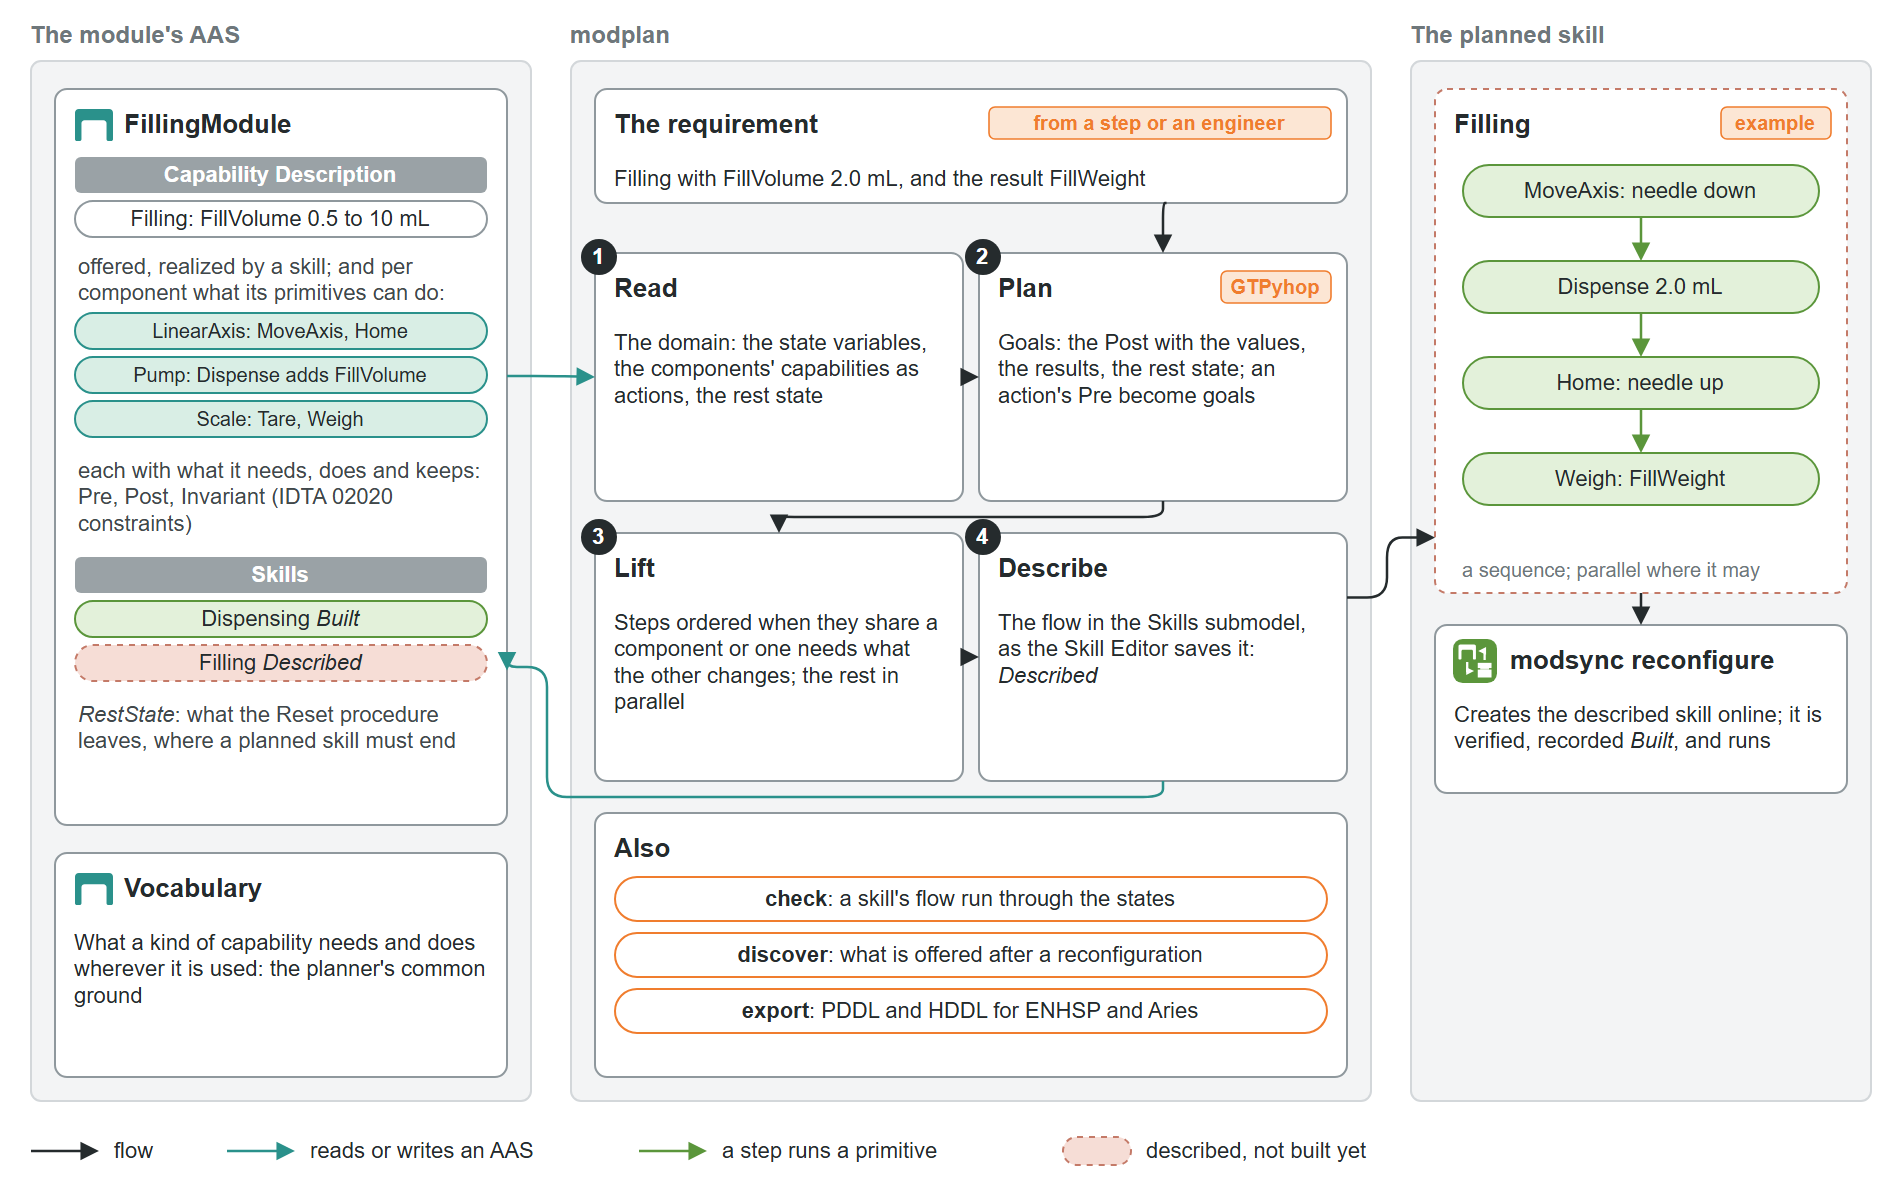
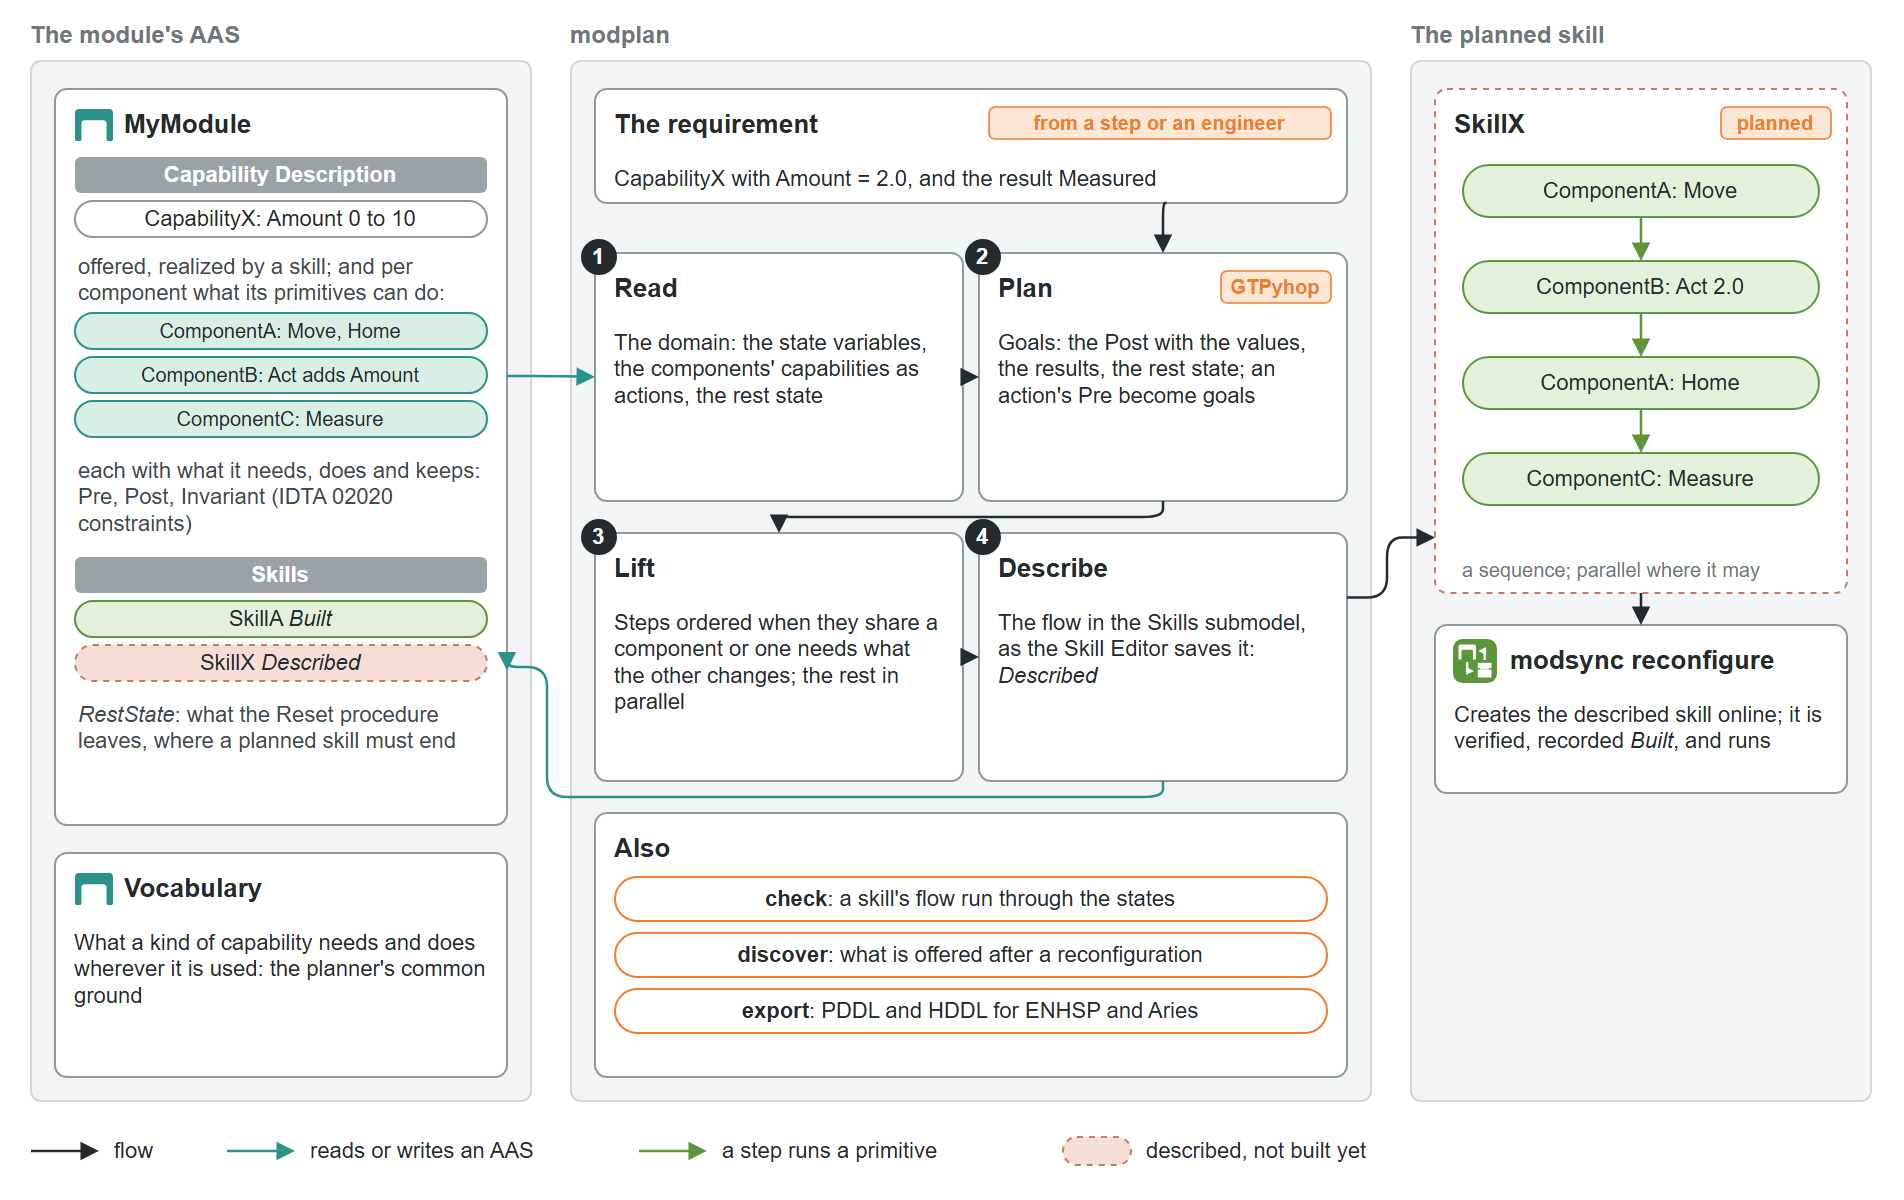
Planning pages and modplan figure: a generic module and capability, current commands

diff --git a/docs/planning/modplan.md b/docs/planning/modplan.md
@@ -2,11 +2,11 @@
 
 <span class="pillar planning">Planning</span> Plans a new composite skill for a module from its
 Capability Description, checks the skills the module has, and finds what it could carry out after a
-reconfiguration. Folder `aas61499-tools/modplan`; becomes the `modplan` repository.
+reconfiguration. A package of [aaspire-tools](https://github.com/AAU-AASPIRE/aaspire-tools).
 
 <figure markdown="span">
   [![The module's AAS with its Capability Description and Skills on the left; modplan's four steps from
-  a requirement in the middle; the planned skill Filling as four steps and modsync creating it on the
+  a requirement in the middle; the planned skill SkillX as four steps and modsync creating it on the
   right](../figures/modplan.png)](../figures/modplan.png)
   <figcaption>From a requirement to a described skill: read the domain, plan, lift the plan into a flow,
   describe it in the Skills submodel. modsync then builds it on the running module.</figcaption>
@@ -14,9 +14,9 @@ reconfiguration. Folder `aas61499-tools/modplan`; becomes the `modplan` reposito
 
 ## How it plans
 
-The input is a **requirement**: a capability the module offers, the values of its properties
-(FillVolume 2.0), and the results asked for (FillWeight). It comes from a product's step, an engineer,
-or an agent that wants to bid.
+The input is a **requirement**: a capability the module offers, the values of its properties (say
+`Amount = 2.0`), and the results asked for (say `Measured`). It comes from a product's step, an
+engineer, or an agent that wants to bid.
 
 1. **Read** the domain from the module's AAS: the state variables (the properties of the components
    and of the product), the components' capabilities as actions with what they need, do and keep,
@@ -41,25 +41,25 @@ It also:
 - **exports** the same problem for standard planners: PDDL 2.1 with numbers (ENHSP) and HDDL (Aries).
   Their plans, carried out by the domain's own semantics, reach what was asked for.
 
-Planning the filling module's Filling with its weight takes under a millisecond on a PC; reading the
-domain from the AAS about one. The same cases through ENHSP and Aries take tens to hundreds of
-milliseconds.
+Planning a skill of a handful of steps takes under a millisecond on a PC, reading the domain from the
+AAS about one; the same cases through ENHSP and Aries take tens to hundreds of milliseconds.
 
 ## Use it
 
+Point it at a folder of AAS files or at an AAS server (`http://<host>:8081`):
+
 ```powershell
-python -m pip install -e ".[planning]"          # GTPyhop and the vocabulary; ".[planners]" for ENHSP and Aries
-python -m modplan domain aas/                   # what the planner reads: capabilities, constraints, rest state
-python -m modplan check aas/ --skill Dispensing # a module level skill run through the states
-python -m modplan discover aas/                 # what the module can carry out, skill or no skill
-python -m modplan plan aas/ --capability Filling --value FillVolume=2.0 --result FillWeight --write
-python -m modplan export aas/ --capability Filling --value FillVolume=2.0 --as hddl --out planning/
-python -m modsync reconfigure aas/ --host <FORTE's host>   # build the described skill online, and record it
+python -m pip install -e "aaspire-tools[planners]"   # GTPyhop is always in; [planners] adds ENHSP and Aries
+python -m modplan domain <aas>                        # what the planner reads: capabilities, constraints, rest state
+python -m modplan check <aas> --skill <Skill>         # a composite skill run through the states
+python -m modplan discover <aas>                      # what the module can carry out, skill or no skill
+python -m modplan plan <aas> --capability <Capability> --value <Property>=<value> --result <Result> --write
+python -m modplan export <aas> --capability <Capability> --value <Property>=<value> --as hddl --out planning/
+python -m modsync reconfigure <aas> --host <FORTE's host>   # build the described skill online, and record it
 ```
 
-`aas/` is a folder of AAS files or an AAS server (`http://<host>:8081`). `plan --write` describes
-the skill in the AAS it came from; nothing is built until modsync builds it. The registration
-service plans for the Skill Editor too (`POST /plan/<module>`).
+`plan --write` describes the skill in the AAS it came from; nothing is built until modsync builds it.
+The registration service offers the same planning to the Skill Editor (`POST /plan/<module>`).
 
 ## What it assumes
 
@@ -67,5 +67,5 @@ A module's state is a handful of properties of its components and of one product
 value, and a skill starts and ends at rest. Not modelled: relations between many objects (a
 transport system's carriers), arithmetic beyond adding and comparing, and time.
 
-Read further: [skill-planning.md](../reference/skill-planning.md),
-[tools.md](../reference/tools.md), section 5.
+Read further: [composing skills from capabilities](../reference/skill-planning.md),
+[how the tools work](../reference/tools.md), section 5.

diff --git a/docs/planning/index.md b/docs/planning/index.md
@@ -1,32 +1,32 @@
 # Planning: deciding from capabilities
 
 <span class="pillar planning">Planning</span> Planning decides what to do from what the AASs say:
-what a product's steps require and what the resources offer. It happens at two levels.
+what a product's steps require and what the resources offer. It happens at two levels, and both read
+the same AASs.
 
 | Level | Question | Planner | Reads | Gives |
 | --- | --- | --- | --- | --- |
-| **The line** | Which resource does which step of an order, and in which order? | FOND-AAS (the colleagues'): FOND planners on PDDL | The resource AASs, the product's recipe | A policy, run as a behaviour tree by the centralized orchestrator |
+| **The line** | Which resource does which step of an order, and in which order? | A line planner, e.g. a FOND planner on PDDL | The resource AASs, the product's recipe | A policy, run as a behaviour tree by a centralized orchestrator |
 | **A module** | The module offers the capability but has no skill for these values: which of its components' primitives, in which order? | [modplan](modplan.md): HTN with goal regression (GTPyhop) | The module's Capability Description | A new composite skill, described in the module's AAS, then created online by [modsync](../reconfiguration/modsync.md) |
 
-The multi-agent orchestrator does the first by bidding instead of planning ahead
+A multi-agent orchestrator does the first by bidding instead of planning ahead
 ([line agents](../execution/agents.md)); a bid can rest on a skill that modplan plans and modsync
 creates first.
 
 ## Capabilities as the planning domain
 
-A module's Capability Description is enough to plan with. Besides what the module offers (Filling,
-0.5 to 10 mL, realized by the skill Dispensing), it holds what each of its components' primitives can
-do, each with what it needs, does and keeps: preconditions, postconditions and invariants as IDTA
-02020 constraints. The lab's vocabulary says what each kind of capability does wherever it is used.
-A capability the module could offer after a reconfiguration is therefore found from its AAS alone:
-offered now, offered after a reconfiguration (by which description), or not offered.
+A module's Capability Description is enough to plan with, if you fill it in fully. Besides what the
+module offers (a capability with its property ranges, realized by a skill), give what each of its
+components' primitives can do, each with what it needs, does and keeps: preconditions, postconditions
+and invariants as IDTA 02020 constraints. The vocabulary says what each kind of capability does
+wherever it is used. A capability the module could offer after a reconfiguration is then found from
+its AAS alone: offered now, offered after a reconfiguration (by which description), or not offered.
 
 ## The parts
 
-| Part | State |
+| Part | What |
 | --- | --- |
-| [modplan](modplan.md) | built: plan, check, discover, export to PDDL and HDDL |
-| FOND-AAS | the colleagues'; to read the same resource AASs and take its goal from the same recipe |
-| The Planner (web UI) | built: matches a recipe's steps to the resources and binds them ([web UI](../interfaces/web-ui.md)) |
+| [modplan](modplan.md) | Plans, checks and discovers a module's skills; exports to PDDL and HDDL |
+| The Planner (web UI) | Matches a recipe's steps to the resources and binds them ([web UI](../interfaces/web-ui.md)) |
 
-Read further: [skill-planning.md](../reference/skill-planning.md).
+Read further: [composing skills from capabilities](../reference/skill-planning.md).
